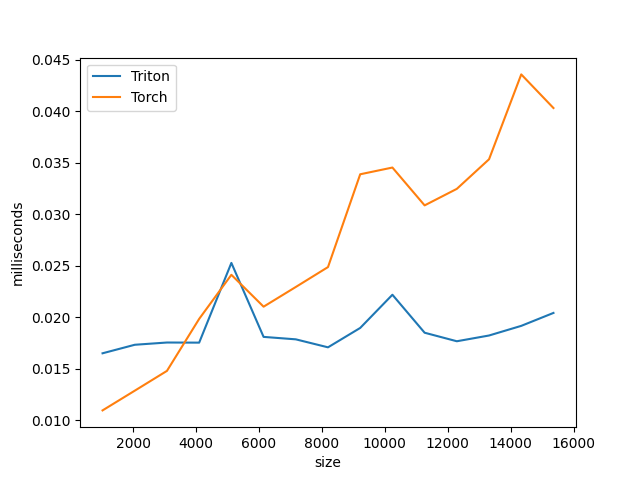
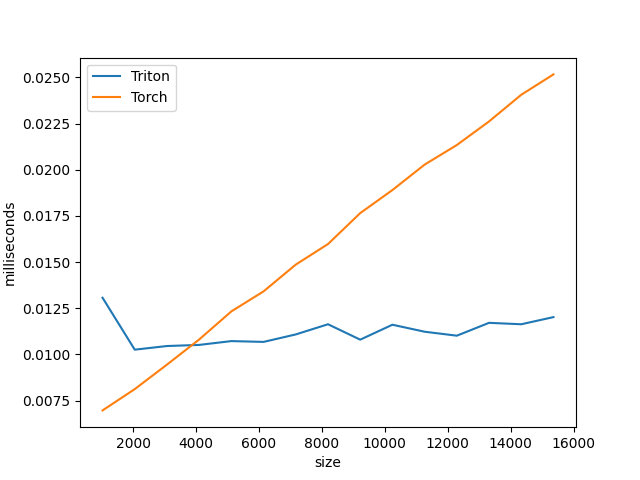
[feat]add torch-all

diff --git a/benchmark-results/results.html b/benchmark-results/results.html
@@ -1,3 +1,3 @@
 <html><body>
-<image src="04-argmax-performance.png"/>
+<image src="02-torch-all-performance-dim1.png"/>
 </body></html>

diff --git a/02-torch-all.py b/02-torch-all.py
@@ -1,6 +1,11 @@
 import triton
 import triton.language as tl
+import triton.testing as testing
+import random
 import torch
+
+
+threshlod = 0.8
 
 
 # Tests if any element in input evaluate to True.
@@ -9,27 +14,124 @@ import torch
 def all_kernel(input_ptr, 
                # Matrix dimensions
                M, 
-               N, 
-               stride_m, 
-               stride_n,
+               N,
+               stride_x, 
+               stride_y, 
                output_ptr, 
-               BLOCK_SIZE_M: tl.constexpr, 
-               BLOCK_SIZE_N: tl.constexpr):
-    pid = tl.program_id(axis=0)
+               dim, 
+               BLOCK_SIZE: tl.constexpr):
+    pid = tl.program_id(axis=(1 if dim == 0 else 0))
+
+    output_block_ptr = tl.make_block_ptr(
+        base=output_ptr, 
+        shape=(N if dim == 0 else M,), 
+        strides=(1,), 
+        offsets=(pid,), 
+        block_shape=(1,), 
+        order=(0,)
+    )
+    input_block_ptr = tl.make_block_ptr(
+        base=input_ptr, 
+        shape=(M, N),
+        strides=(stride_x, stride_y),
+        offsets=(0, pid) if dim == 0 else (pid, 0),
+        block_shape=(BLOCK_SIZE, 1) if dim == 0 else (1, BLOCK_SIZE), 
+        order=(1, 0)
+    )
+    input = tl.load(input_block_ptr, boundary_check=(0, 1))
+    output = tl.min(input, axis=(0 if dim == 0 else 1))
+    tl.store(output_block_ptr, output.to(tl.float32))
 
 
 def _all(x: torch.Tensor, dim):
     M, N = x.shape
+    if (dim == 0):
+        # 按列输出结果
+        BLOCK_SIZE = triton.next_power_of_2(M)
+    elif (dim == 1):
+        # 按行输出结果
+        BLOCK_SIZE = triton.next_power_of_2(N)
+    else:
+        raise RuntimeError("ERROR: illegal dim(should be 0 or 1)")
+    stride_x = x.stride(0)
+    stride_y = x.stride(1)
+    output = torch.empty(N if dim==0 else M, device='cuda',dtype=torch.float32)
+    assert x.is_cuda and output.is_cuda
+
+    def grid(meta):
+        return (1, N) if dim==0 else (M,)
+    
+    all_kernel[grid](x, M, N, stride_x, stride_y, output, dim=dim, BLOCK_SIZE=BLOCK_SIZE)
+    return output == 1
+
+
+@testing.perf_report(
+    [
+        testing.Benchmark(
+            x_names=["N"],
+            x_vals=[8 * i for i in range(1, 16, 1)],
+            x_log=False,
+            line_arg="backend",
+            line_vals=["triton", "torch"],
+            line_names=["Triton", "Torch"],
+            ylabel="milliseconds",
+            plot_name="02-torch-all-performance-dim0",
+            args={"M": 64},
+        ),
+    ]
+)
+def benchmark0(M, N, backend):
+    input = torch.rand(M, N, device='cuda') < threshlod
+    dim = 0
+
+    if backend == "triton":
+        return testing.do_bench(lambda: _all(input, dim=dim))
+    else:
+        return testing.do_bench(lambda: torch.all(input, dim=dim))
+    
+
+@testing.perf_report(
+    [
+        testing.Benchmark(
+            x_names=["N"],
+            x_vals=[128 * i for i in range(1, 16, 1)],
+            x_log=False,
+            line_arg="backend",
+            line_vals=["triton", "torch"],
+            line_names=["Triton", "Torch"],
+            ylabel="milliseconds",
+            plot_name="02-torch-all-performance-dim1",
+            args={"M": 32},
+        ),
+    ]
+)
+def benchmark1(M, N, backend):
+    input = torch.rand(M, N, device='cuda') < threshlod
+    dim = 1
+
+    if backend == "triton":
+        return testing.do_bench(lambda: _all(input, dim=dim))
+    else:
+        return testing.do_bench(lambda: torch.all(input, dim=dim))
 
 
 # TEST CODE
 torch.manual_seed(0)
-threshlod = 0.5
-size = (32, 16)
-x = torch.rand(size, device='cuda') < threshlod
-# x = torch.ones(size, dtype=torch.bool, device='cuda') # All True test case 
+N = (8, 4)
+x = torch.rand(N, device='cuda') < threshlod
 output_torch_dim0 = torch.all(x, dim=0)
 output_torch_dim1 = torch.all(x, dim=1)
+output_triton_dim0 = _all(x, dim=0)
+output_triton_dim1 = _all(x, dim=1)
 print(f'Origin Tensor: {x}')
 print(f'Torch output(dim=0): {output_torch_dim0}')
 print(f'Torch output(dim=1): {output_torch_dim1}')
+print(f'Triton output(dim=0): {output_triton_dim0}')
+print(f'Triton output(dim=1): {output_triton_dim1}')
+print(f"The output of torch and triton(dim0) is {'✅SAME' if torch.allclose(output_torch_dim0, output_triton_dim0) else '🚨DIFF'}")
+print(f"The output of torch and triton(dim1) is {'✅SAME' if torch.allclose(output_torch_dim1, output_triton_dim1) else '🚨DIFF'}")
+print(f'BENCHMARKING: dim0')
+benchmark0.run(show_plots=True, print_data=True, save_path='./benchmark-results/')
+print(f'BENCHMARKING: dim1')
+benchmark1.run(show_plots=True, print_data=True, save_path='./benchmark-results/')
+print(f'Successfully run the benchmark')

diff --git a/04-argmax.py b/04-argmax.py
@@ -9,21 +9,26 @@ def argmax_kernel(output_ptr, input_ptr, num_batches, size, block_size: tl.const
     batch = tl.program_id(0)
 
     output_block_ptr = tl.make_block_ptr(
-        output_ptr, shape=(num_batches,), strides=(1,), offsets=(batch,), block_shape=(1,), order=(0,)
+        base=output_ptr, 
+        shape=(num_batches,), 
+        strides=(1,), 
+        offsets=(batch,), 
+        block_shape=(1,), 
+        order=(0,)
     )
     input_block_ptr = tl.make_block_ptr(
-        input_ptr,
+        base=input_ptr,
         shape=(num_batches, size),
         strides=(size, 1),
         offsets=(batch, 0),
         block_shape=(1, block_size),
-        order=(1, 0),
+        order=(1, 0)
     )
 
     input = tl.load(input_block_ptr, boundary_check=(1,))
     condition = tl.arange(0, block_size) < size
     input = tl.where(condition, input, float("-inf"))
-    output = tl.argmax(input, 1)
+    output = tl.argmax(input, axis=1)
     tl.store(output_block_ptr, output.to(tl.int64))
 
 
@@ -47,7 +52,7 @@ def argmax(input, dim):
     [
         testing.Benchmark(
             x_names=["size"],
-            x_vals=[256 * i for i in range(1, 11, 1)],
+            x_vals=[256 * i for i in range(1, 16, 1)],
             x_log=False,
             line_arg="backend",
             line_vals=["triton", "torch"],
@@ -59,7 +64,7 @@ def argmax(input, dim):
     ]
 )
 def benchmark(num_batches, size, backend):
-    input = torch.rand(num_batches, size, device="cuda")
+    input = torch.rand(num_batches, size, device='cuda')
 
     if backend == "triton":
         return testing.do_bench(lambda: argmax(input, 1))

diff --git a/01-naive-all.py b/01-naive-all.py
@@ -4,6 +4,9 @@ import triton.testing as testing
 import torch
 
 
+threshlod = 0.8
+
+
 # Tests if all elements in input evaluate to True.
 # naive-all only support 1-dimension tensor(i.e. The parameter 'dim' is unsupported)
 @triton.jit
@@ -25,6 +28,7 @@ def _all(x: torch.Tensor):
     # BLOCK_SIZE = triton.next_power_of_2(size)
     o_elements = size // BLOCK_SIZE
     output = torch.empty(o_elements, device='cuda')
+    
     assert x.is_cuda and output.is_cuda
     grid = lambda meta: (triton.cdiv(size, meta['BLOCK_SIZE']), )
     all_kernel[grid](x, output, size, BLOCK_SIZE=BLOCK_SIZE) # type: ignore
@@ -47,7 +51,7 @@ def _all(x: torch.Tensor):
     ]
 )
 def benchmark(num_batches, size, backend):
-    input = torch.rand(num_batches, size, device="cuda") < 0.5
+    input = torch.rand(num_batches, size, device="cuda") < threshlod
 
     if backend == "triton":
         return testing.do_bench(lambda: _all(input))
@@ -57,10 +61,8 @@ def benchmark(num_batches, size, backend):
 
 # TEST CODE
 torch.manual_seed(0)
-threshlod = 0.5
 size = 98432
 x = torch.rand(size, device='cuda') < threshlod
-# x = torch.ones(size, dtype=torch.bool, device='cuda') # All True test case 
 output_torch = torch.all(x)
 output_triton = _all(x)
 print(f'Origin Tensor: {x}')

diff --git a/test-make-block-ptr.py b/test-make-block-ptr.py
@@ -1,0 +1,43 @@
+import triton
+import triton.language as tl
+import torch
+
+
+def sum_row_blocked(A: torch.Tensor) -> torch.Tensor:
+    M, N = A.shape
+    outputs = torch.empty((M,), dtype=A.dtype, device=A.device)
+
+    dynamic_launch_grid = lambda params: (triton.cdiv(M, params["BLOCK_M"]), )
+    sum_row_blocked_kernel[dynamic_launch_grid](
+        A_ptr=A, outputs_ptr=outputs,
+        M=M, N=N,
+        A_strides_x=A.stride(0), A_strides_y=A.stride(1),
+        BLOCK_M=2,
+    )
+
+    return outputs
+
+
+@triton.jit
+def sum_row_blocked_kernel(
+    A_ptr, outputs_ptr,
+    M, N,
+    BLOCK_M,
+    A_strides_x, A_strides_y,
+):
+    program_id = tl.program_id(axis=0)
+    input_block_ptr = tl.make_block_ptr(
+        base=A_ptr,
+        shape=(M, N),
+        strides=(A_strides_x, A_strides_y),
+        offsets=(program_id * BLOCK_M, 0),
+        block_shape=(BLOCK_M, N),
+        order=(1, 0),
+    )
+
+
+# TEST CODE
+torch.manual_seed(0)
+N = (8, 16)
+x = torch.rand(N, device='cuda')
+print(f'x\'s stride-x is: {x.stride(0)}, x\'s stride-y is {x.stride(1)}')
